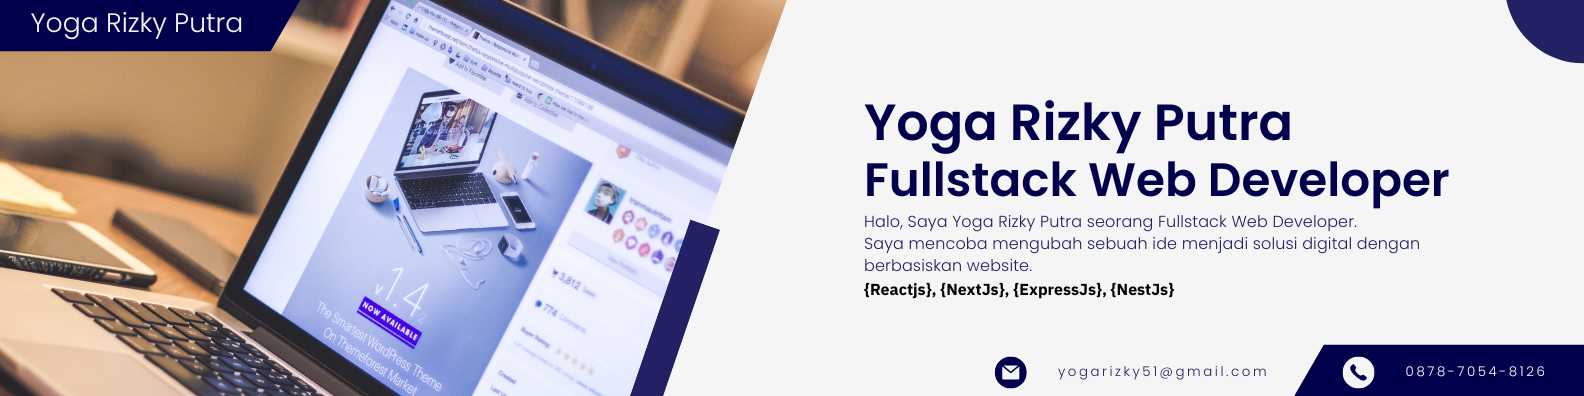
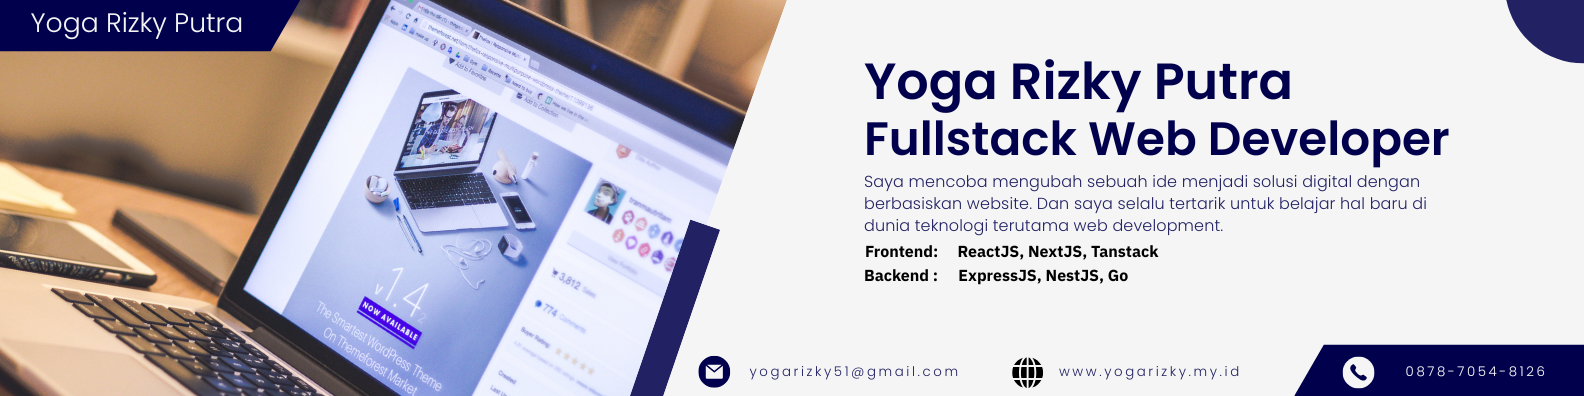
update image and md file

Changed region(s): [[0.5259, 0.1515, 0.928, 0.7576], [0.6187, 0.8788, 0.8043, 1.0], [0.4331, 0.8788, 0.5878, 1.0]]

diff --git a/README.md b/README.md
@@ -14,11 +14,12 @@ Web Development Enthusiast | Forever Learner
 ## ⭐ Quick Badges
 
 <p align="center">
-  <img src="https://img.shields.io/badge/Code-React-61DAFB?style=for-the-badge&logo=react&logoColor=000" />
-  <img src="https://img.shields.io/badge/Framework-Next.js-000000?style=for-the-badge&logo=nextdotjs" />
-  <img src="https://img.shields.io/badge/Backend-Express-000?style=for-the-badge&logo=express" />
-  <img src="https://img.shields.io/badge/DB-MongoDB-47A248?style=for-the-badge&logo=mongodb&logoColor=fff" />
-  <img src="https://img.shields.io/badge/DB-PostgreSQL-4169E1?style=for-the-badge&logo=postgresql&logoColor=fff" />
+  <img src="https://img.shields.io/badge/Frontend-React.JS-61DAFB?style=for-the-badge&logo=react&logoColor=000" />
+  <img src="https://img.shields.io/badge/Frontend-Next.js-000000?style=for-the-badge&logo=nextdotjs" />
+  <img src="https://img.shields.io/badge/Frontend-TanStack-FF4154?style=for-the-badge&logo=reactquery&logoColor=fff" />
+  <img src="https://img.shields.io/badge/Backend-Express.JS-000?style=for-the-badge&logo=express" />
+  <img src="https://img.shields.io/badge/Backend-Nest.JS-E0234E?style=for-the-badge&logo=nestjs&logoColor=fff" />
+  <img src="https://img.shields.io/badge/Backend-Go-00ADD8?style=for-the-badge&logo=go&logoColor=fff" />
 </p>
 
 ---
@@ -27,8 +28,7 @@ Web Development Enthusiast | Forever Learner
   <summary><strong>🙋♂ About Me</strong></summary>
   <br>
 
-I'm **Yoga Rizky**, a full-stack web developer who enjoys turning ideas into real, working digital experiences.  
-I focus mostly on **frontend development**, but I'm comfortable across the entire stack.
+I'm a full-stack web developer with 2 years professional experience and 5 years web dev experience, who enjoys turning ideas into real, working digital experiences.
 
 I’m always learning and exploring new tools, especially in the Web development and digital technologies.
 
@@ -42,9 +42,7 @@ I’m always learning and exploring new tools, especially in the Web development
 
 - Building web based application
 - Focus on creating clean, functional, and intuitive user experiences
-- Work with **React**, **Next.js**, **Express**, and **Node.js**
-- Exploring DevOps fundamentals and cloud workflows
-- Planning to dive deeper into **Go** for backend development
+- Work with **React.js**, **Next.js**, **Tanstack**, **Express.js**, **Nest.js**, and **Go**
 
 </details>
 
@@ -58,25 +56,26 @@ I’m always learning and exploring new tools, especially in the Web development
 
 - React.js
 - Next.js
+- Tanstack
 - Express.js
-- Node.js
+- Nest.js
+- Go
 
 ### 🔹 Experienced With
 
-- NestJS
+- Vue.js
 - Bun
-- AdonisJS
 - Laravel
 
 ### 🔹 Databases
 
 - MongoDB
 - PostgreSQL
+- MySQLs
 - Redis
 
 ### 🔹 Currently Exploring
 
-- GitHub Actions
 - Jenkins
 - Monitoring tools
 - UI/UX fundamentals
@@ -104,7 +103,7 @@ I’m always learning and exploring new tools, especially in the Web development
 
 - **Email:** yogarizky51@gmail.com
 - **LinkedIn:** https://www.linkedin.com/in/yogarizkyputra
-- **Portfolio:** Coming soon
+- **Portfolio:** www.yogarizky.my.id
 
 </details>
 
